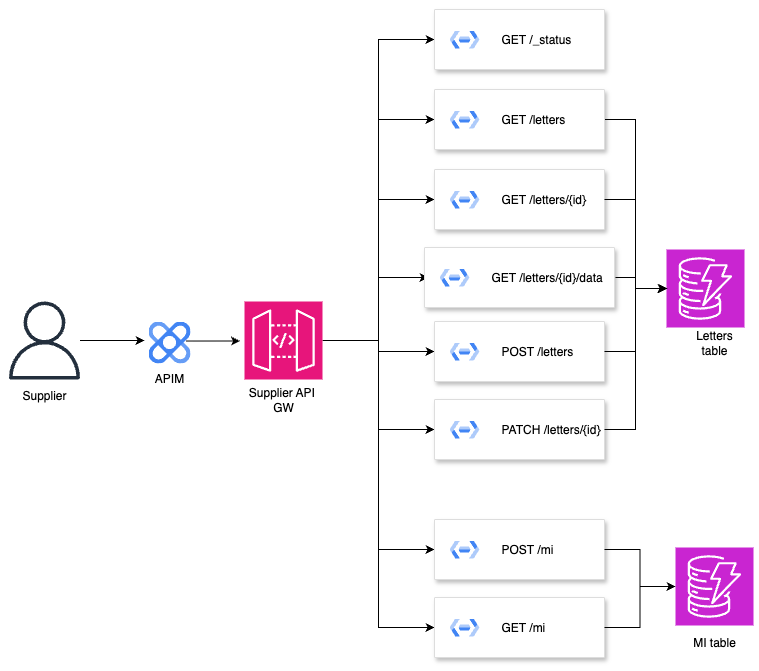
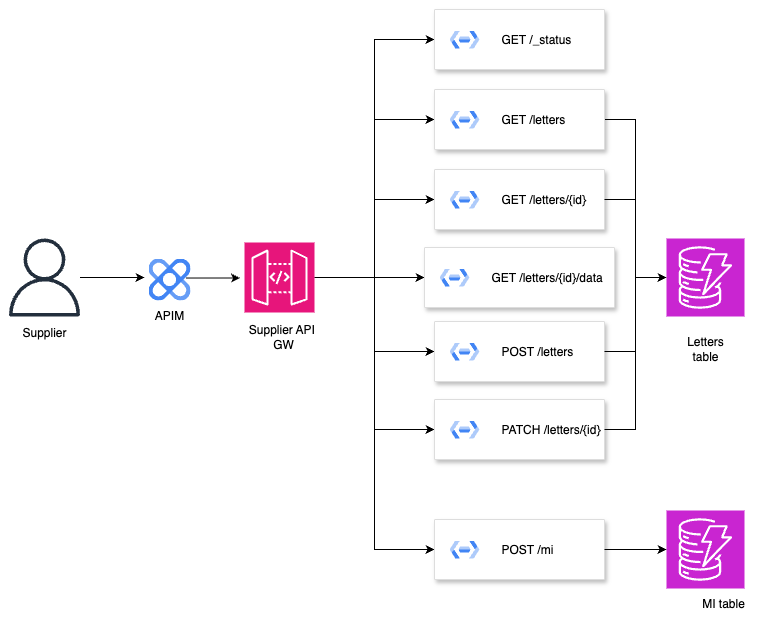
Take get /mi out of tech docs

diff --git a/docs/collections/_consumers/acceptance.md b/docs/collections/_consumers/acceptance.md
@@ -511,14 +511,13 @@ Your MI submissions accurately match the letters you've processed.
 **Endpoints:**
 
 - POST /mi
-- GET /mi
 
 **What this test proves:**
 That you can submit MI data in the correct format and confirm it's recorded correctly.
 
 | Criteria | Description |
 |---|---|
-| **Steps** | - Submit MI for a known number of processed letters. The MI should be grouped by specification and group ID<br>- Retrieve the same data with GET /mi<br>- Reconcile counts and timestamps with your local records. |
+| **Steps** | - Submit MI for a known number of processed letters. The MI should be grouped by specification and group ID<br>- Reconcile counts and timestamps with your local records. |
 | **Acceptance** | - MI entries appear in NHS Notify within expected timeframe<br>- Counts match processed letters <br>- No duplicates MI entries for the same date or missing records. |
 | **Evidence** | MI payloads and responses. |
 | **Business value** | Shows that operational and billing data are aligned and complete. |
